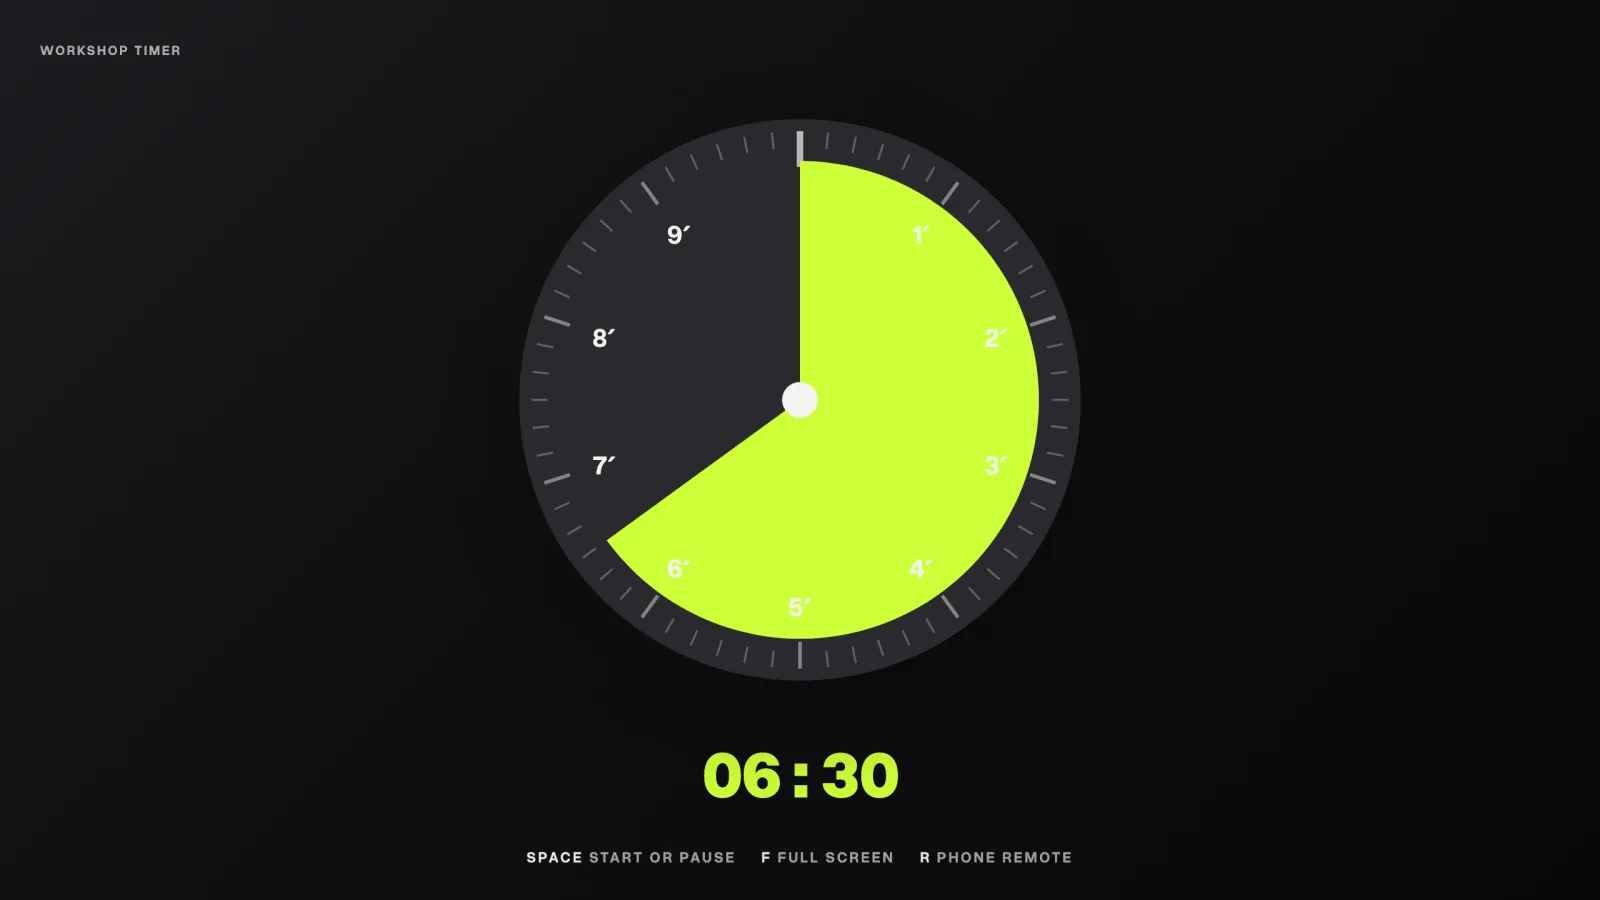
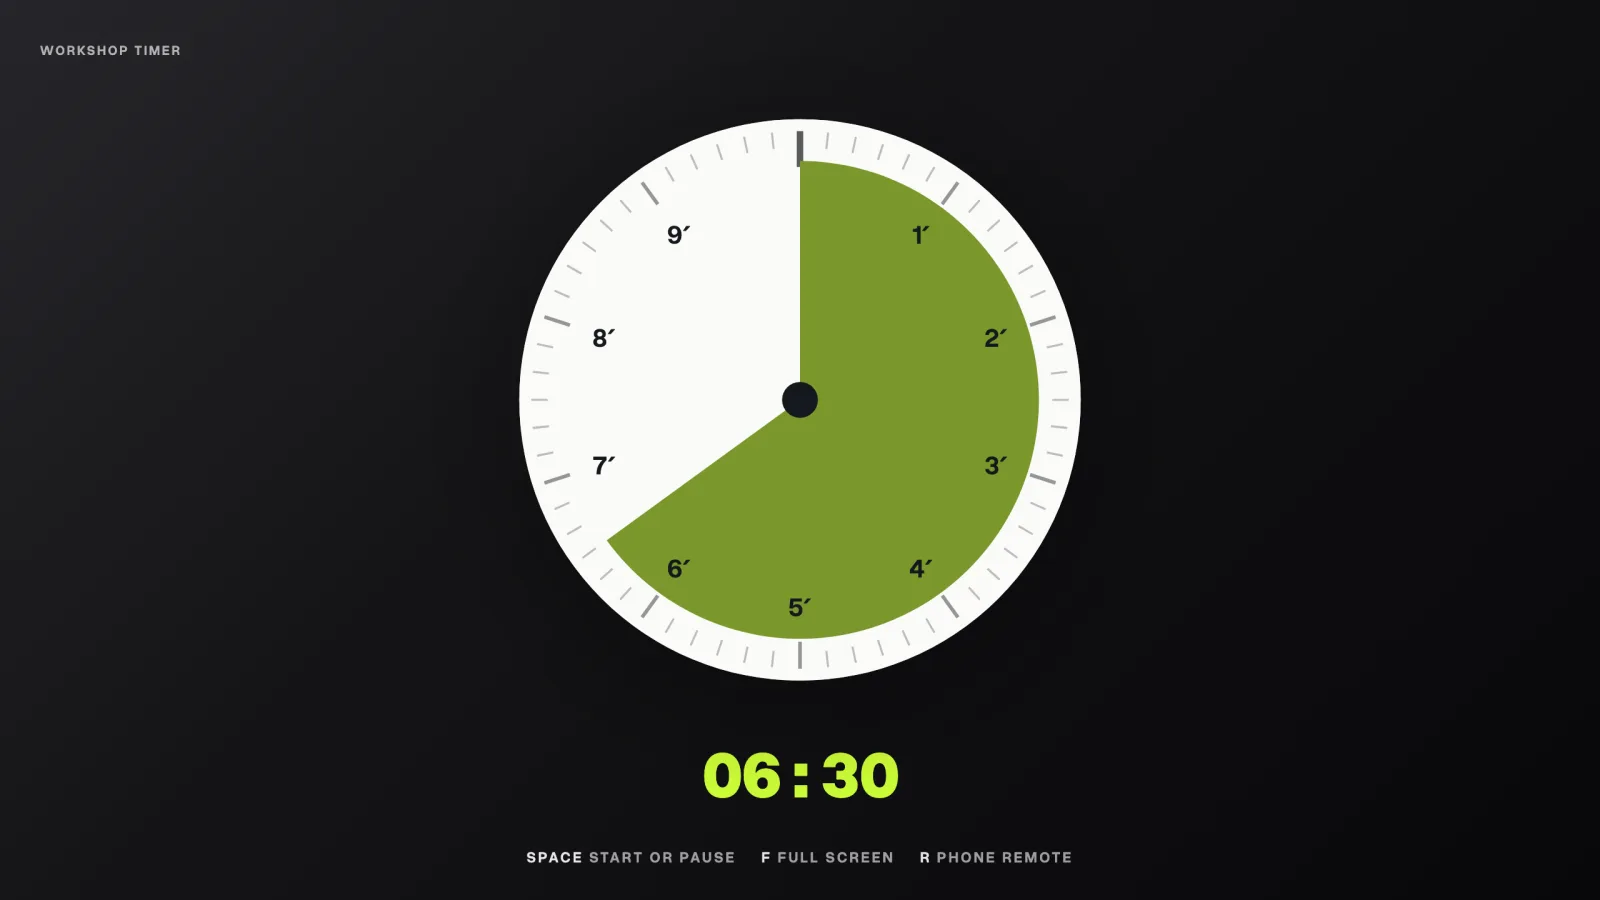
A lime share card, and Use pictures with readable dial numbers
The page's share card is now lime and 1200x630, the size LinkedIn and Facebook
prefer, and ends on "MIT · Self-hosted · White-label · Free". Its dial is the
app's own, lifted as vector, with the wedge painted the page's lime.

The four Use pictures are re-shot with lime as the only brand change, on the
standard white dial. The earlier set used a dark dial with light ink, which put
white numbers on the lime wedge at about 1:1; on the white dial every number
reads. The app shades the wedge darker there, as it does for any pale accent,
and the pictures show that as it is.

Changed region(s): [[0.3125, 0.1244, 0.6875, 0.7778]]

diff --git a/site/index.html b/site/index.html
@@ -13,14 +13,14 @@
 <meta property="og:title" content="Workshop Timer · A free countdown timer for workshops and trainings">
 <meta property="og:description" content="A free, open-source workshop countdown timer for facilitators and trainers, with a phone remote. Projector-sized and white-label: set it up with Claude, Codex, Gemini or Antigravity, or with npm, and give it your logo, colours and fonts.">
 <meta property="og:url" content="https://tudorjuravlea.github.io/workshop-timer/">
-<meta property="og:image" content="https://tudorjuravlea.github.io/workshop-timer/assets/social-card.png">
+<meta property="og:image" content="https://tudorjuravlea.github.io/workshop-timer/assets/og-card.png">
 <meta property="og:image:width" content="1200">
-<meta property="og:image:height" content="600">
+<meta property="og:image:height" content="630">
 <meta property="og:image:alt" content="The Workshop Timer dial beside the line: a workshop countdown timer with a phone remote.">
 <meta name="twitter:card" content="summary_large_image">
 <meta name="twitter:title" content="Workshop Timer · A free countdown timer for workshops and trainings">
 <meta name="twitter:description" content="A free, open-source workshop countdown timer for facilitators and trainers, with a phone remote. Projector-sized and white-label: set it up with Claude, Codex, Gemini or Antigravity, or with npm, and give it your logo, colours and fonts.">
-<meta name="twitter:image" content="https://tudorjuravlea.github.io/workshop-timer/assets/social-card.png">
+<meta name="twitter:image" content="https://tudorjuravlea.github.io/workshop-timer/assets/og-card.png">
 <script type="application/ld+json">
 {
  "@context": "https://schema.org",
@@ -38,7 +38,7 @@
     "priceCurrency": "EUR"
    },
    "license": "https://opensource.org/licenses/MIT",
-   "image": "https://tudorjuravlea.github.io/workshop-timer/assets/social-card.png",
+   "image": "https://tudorjuravlea.github.io/workshop-timer/assets/og-card.png",
    "author": {
     "@type": "Person",
     "name": "Tudor Juravlea",
@@ -784,15 +784,15 @@
     </article>
     <article class="step-row">
       <div class="step-text"><span class="step-n">02</span><h3>Start it.</h3><div class="keyrow"><span><span class="kbd">Space</span> start or pause</span><span><span class="kbd">F</span> full screen</span></div></div>
-      <div class="step-img"><img src="assets/step-running.webp" alt="The timer running full screen: a large dial two thirds lime, reading 06:30" loading="lazy"></div>
+      <div class="step-img"><img src="assets/step-running.webp" alt="The timer running full screen: a large white dial, two thirds of it green, reading 06:30 in lime" loading="lazy"></div>
     </article>
     <article class="step-row">
       <div class="step-text"><span class="step-n">03</span><h3>Walk the room.</h3><p class="body"><span class="kbd">R</span> shows an address and a five-character code. Open it on your phone, type the code, and drive the clock from anywhere.</p></div>
-      <div class="step-img has-phone"><div class="phone over" aria-hidden="true"><div class="ph-screen shot-screen with-kb"><div class="ph-island"></div><div class="shot-top"><img src="assets/walk-phone.webp" alt=""></div><div class="ios-kb"><div class="kr"><span class="k">Q</span><span class="k">W</span><span class="k">E</span><span class="k">R</span><span class="k">T</span><span class="k">Y</span><span class="k">U</span><span class="k">I</span><span class="k">O</span><span class="k">P</span></div><div class="kr r2"><span class="k">A</span><span class="k">S</span><span class="k">D</span><span class="k">F</span><span class="k">G</span><span class="k">H</span><span class="k hit">J</span><span class="k">K</span><span class="k">L</span></div><div class="kr"><span class="k fn">⇧</span><span class="k">Z</span><span class="k">X</span><span class="k">C</span><span class="k">V</span><span class="k">B</span><span class="k">N</span><span class="k">M</span><span class="k fn">⌫</span></div><div class="kr"><span class="k fn w2">123</span><span class="k sp">space</span><span class="k fn go w2">Go</span></div></div></div></div><img src="assets/walk-screen.webp" alt="The timer with a lime dial, its pairing code CKPGJ on screen, waiting for the phone; in front, a phone with CKPGJ typed into the remote" loading="lazy"></div>
+      <div class="step-img has-phone"><div class="phone over" aria-hidden="true"><div class="ph-screen shot-screen with-kb"><div class="ph-island"></div><div class="shot-top"><img src="assets/walk-phone.webp" alt=""></div><div class="ios-kb"><div class="kr"><span class="k">Q</span><span class="k">W</span><span class="k">E</span><span class="k">R</span><span class="k">T</span><span class="k">Y</span><span class="k">U</span><span class="k">I</span><span class="k">O</span><span class="k">P</span></div><div class="kr r2"><span class="k">A</span><span class="k">S</span><span class="k">D</span><span class="k">F</span><span class="k">G</span><span class="k">H</span><span class="k hit">J</span><span class="k">K</span><span class="k">L</span></div><div class="kr"><span class="k fn">⇧</span><span class="k">Z</span><span class="k">X</span><span class="k">C</span><span class="k">V</span><span class="k">B</span><span class="k">N</span><span class="k">M</span><span class="k fn">⌫</span></div><div class="kr"><span class="k fn w2">123</span><span class="k sp">space</span><span class="k fn go w2">Go</span></div></div></div></div><img src="assets/walk-screen.webp" alt="The timer with its pairing code AXHV4 on screen, waiting for the phone; in front, a phone with AXHV4 typed into the remote" loading="lazy"></div>
     </article>
     <article class="step-row">
       <div class="step-text"><span class="step-n">04</span><h3>Let the room hear the end.</h3><p class="body">A quiet tick speeds up in the last minutes, then a gong. Mute it with one button.</p></div>
-      <div class="step-img"><img src="assets/step-finish.webp" alt="Time's up in lime on a dark disc, with lime confetti bursting around it" loading="lazy"></div>
+      <div class="step-img"><img src="assets/step-finish.webp" alt="Time's up on a white disc, with lime and white confetti bursting around it" loading="lazy"></div>
     </article>
   </div>
 </div></section>
